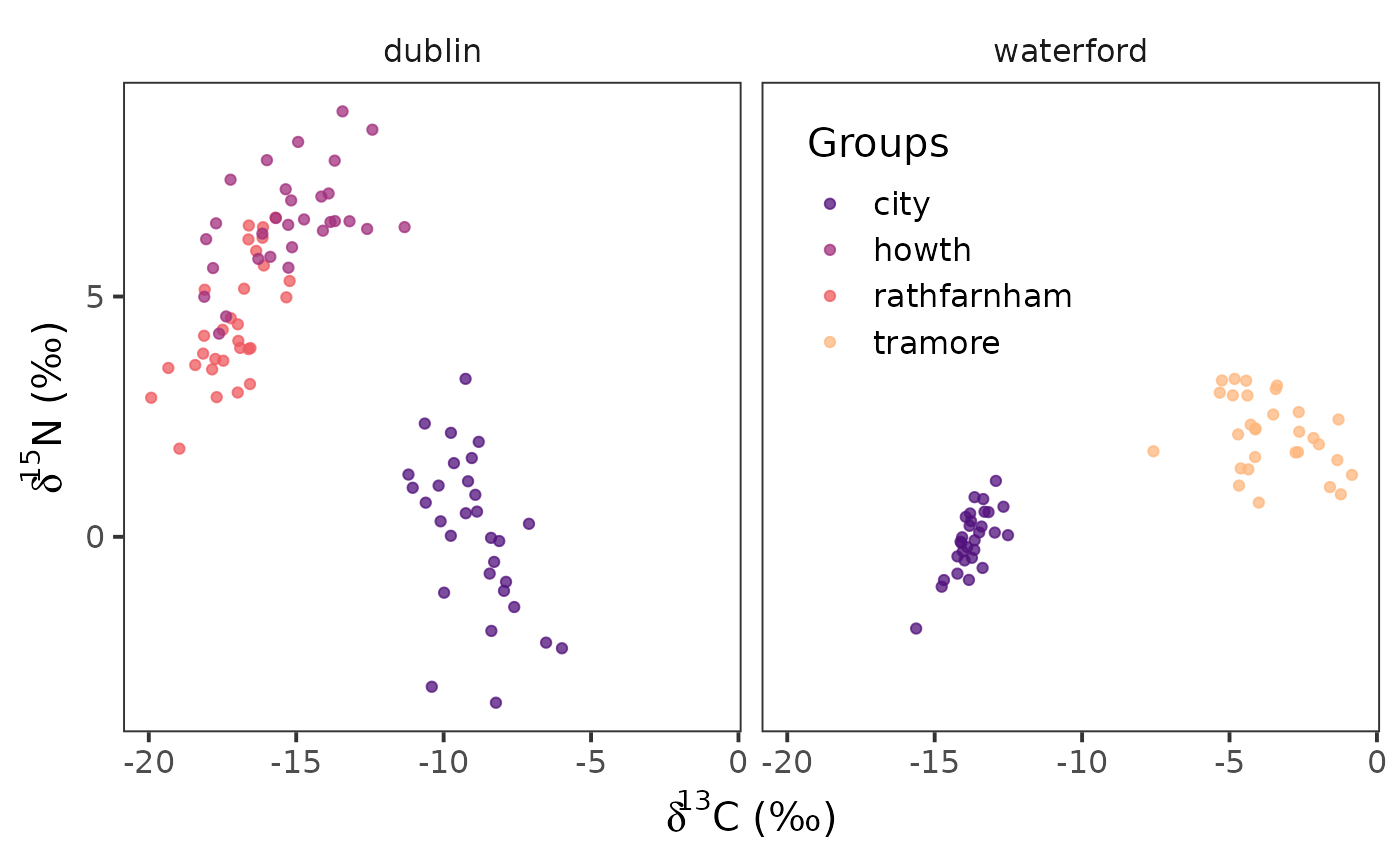
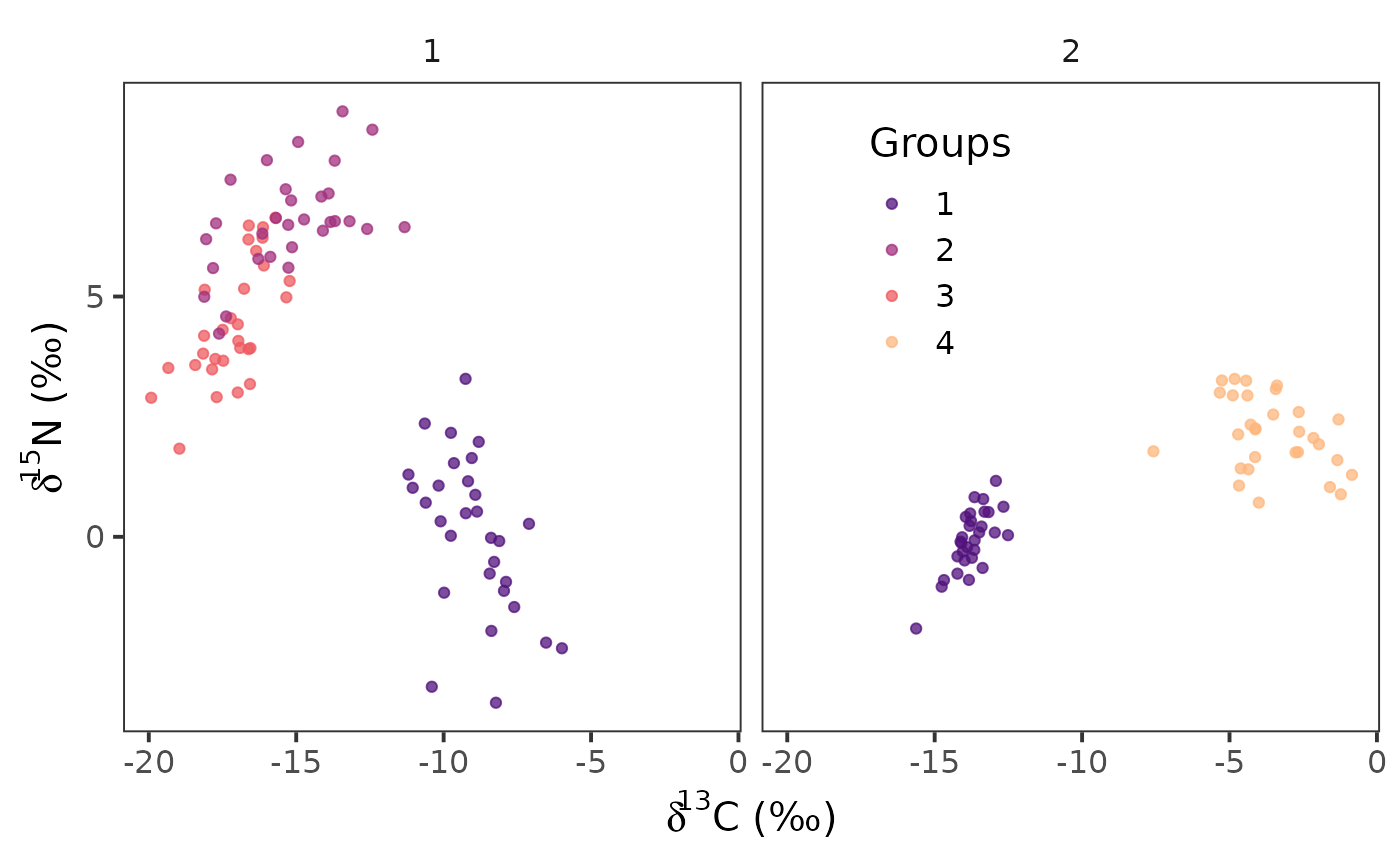
Deploying to gh-pages from @ benjaminhlina/nichetools@7597ed2ea087800a6d9cb8078057e51d91c0f65c 🚀

diff --git a/articles/using-nichetools-with-the-package-SIBER.html b/articles/using-nichetools-with-the-package-SIBER.html
@@ -150,17 +150,23 @@ community and group names fed to <code><a href="https://rdrr.io/pkg/SIBER/man/cr
 <span>      <span class="fu"><a href="https://rdrr.io/r/base/character.html" class="external-link">as.character</a></span><span class="op">(</span><span class="op">)</span>,</span>
 <span>    community_id <span class="op">=</span> <span class="fu"><a href="https://rdrr.io/r/base/numeric.html" class="external-link">as.numeric</a></span><span class="op">(</span><span class="va">community</span><span class="op">)</span> <span class="op"><a href="https://magrittr.tidyverse.org/reference/pipe.html" class="external-link">%&gt;%</a></span></span>
 <span>      <span class="fu"><a href="https://rdrr.io/r/base/character.html" class="external-link">as.character</a></span><span class="op">(</span><span class="op">)</span></span>
+<span>  <span class="op">)</span> <span class="op"><a href="https://magrittr.tidyverse.org/reference/pipe.html" class="external-link">%&gt;%</a></span> </span>
+<span>  <span class="fu"><a href="https://dplyr.tidyverse.org/reference/rename.html" class="external-link">rename</a></span><span class="op">(</span></span>
+<span>    group_name <span class="op">=</span> <span class="va">group</span>,</span>
+<span>    community_name <span class="op">=</span> <span class="va">community</span>,</span>
+<span>    group <span class="op">=</span> <span class="va">group_id</span>,</span>
+<span>    community <span class="op">=</span> <span class="va">community_id</span></span>
 <span>  <span class="op">)</span></span>
 <span></span>
 <span><span class="fu"><a href="https://pillar.r-lib.org/reference/glimpse.html" class="external-link">glimpse</a></span><span class="op">(</span><span class="va">demo.siber.data.2</span><span class="op">)</span></span>
 <span><span class="co">#&gt; Rows: 150</span></span>
 <span><span class="co">#&gt; Columns: 6</span></span>
-<span><span class="co">#&gt; $ iso1         <span style="color: #949494; font-style: italic;">&lt;dbl&gt;</span> -11.048902, -8.809360, -9.256212, -8.380952, -10.401561, …</span></span>
-<span><span class="co">#&gt; $ iso2         <span style="color: #949494; font-style: italic;">&lt;dbl&gt;</span> 1.02044315, 1.97597511, 3.28707260, -1.95750266, -3.11949…</span></span>
-<span><span class="co">#&gt; $ group        <span style="color: #949494; font-style: italic;">&lt;fct&gt;</span> city, city, city, city, city, city, city, city, city, cit…</span></span>
-<span><span class="co">#&gt; $ community    <span style="color: #949494; font-style: italic;">&lt;fct&gt;</span> dublin, dublin, dublin, dublin, dublin, dublin, dublin, d…</span></span>
-<span><span class="co">#&gt; $ group_id     <span style="color: #949494; font-style: italic;">&lt;chr&gt;</span> "1", "1", "1", "1", "1", "1", "1", "1", "1", "1", "1", "1…</span></span>
-<span><span class="co">#&gt; $ community_id <span style="color: #949494; font-style: italic;">&lt;chr&gt;</span> "1", "1", "1", "1", "1", "1", "1", "1", "1", "1", "1", "1…</span></span></code></pre></div>
+<span><span class="co">#&gt; $ iso1           <span style="color: #949494; font-style: italic;">&lt;dbl&gt;</span> -11.048902, -8.809360, -9.256212, -8.380952, -10.401561…</span></span>
+<span><span class="co">#&gt; $ iso2           <span style="color: #949494; font-style: italic;">&lt;dbl&gt;</span> 1.02044315, 1.97597511, 3.28707260, -1.95750266, -3.119…</span></span>
+<span><span class="co">#&gt; $ group_name     <span style="color: #949494; font-style: italic;">&lt;fct&gt;</span> city, city, city, city, city, city, city, city, city, c…</span></span>
+<span><span class="co">#&gt; $ community_name <span style="color: #949494; font-style: italic;">&lt;fct&gt;</span> dublin, dublin, dublin, dublin, dublin, dublin, dublin,…</span></span>
+<span><span class="co">#&gt; $ group          <span style="color: #949494; font-style: italic;">&lt;chr&gt;</span> "1", "1", "1", "1", "1", "1", "1", "1", "1", "1", "1", …</span></span>
+<span><span class="co">#&gt; $ community      <span style="color: #949494; font-style: italic;">&lt;chr&gt;</span> "1", "1", "1", "1", "1", "1", "1", "1", "1", "1", "1", …</span></span></code></pre></div>
 <p>After we have done this, we are going to create two data frames that
 are the names of our communities and groups with their associated id
 values. We will use these data frames later on to join up the actual
@@ -173,20 +179,21 @@ groups named 1, 2, 3 ect. and instead will have actual names.</p>
 <span><span class="va">cg_names</span> <span class="op">&lt;-</span> <span class="va">demo.siber.data.2</span> <span class="op"><a href="https://magrittr.tidyverse.org/reference/pipe.html" class="external-link">%&gt;%</a></span></span>
 <span>  <span class="fu"><a href="https://dplyr.tidyverse.org/reference/distinct.html" class="external-link">distinct</a></span><span class="op">(</span><span class="va">group</span>,</span>
 <span>           <span class="va">community</span>, </span>
-<span>           <span class="va">group_id</span>, </span>
-<span>           <span class="va">community_id</span><span class="op">)</span> <span class="op"><a href="https://magrittr.tidyverse.org/reference/pipe.html" class="external-link">%&gt;%</a></span></span>
+<span>           <span class="va">group_name</span>, </span>
+<span>           <span class="va">community_name</span><span class="op">)</span> <span class="op"><a href="https://magrittr.tidyverse.org/reference/pipe.html" class="external-link">%&gt;%</a></span></span>
+<span>  </span>
 <span>  <span class="fu"><a href="https://dplyr.tidyverse.org/reference/arrange.html" class="external-link">arrange</a></span><span class="op">(</span><span class="va">community</span>, <span class="va">group</span><span class="op">)</span></span>
 <span></span>
 <span><span class="co"># ---- create community names data frame ---- </span></span>
 <span><span class="va">c_names</span> <span class="op">&lt;-</span> <span class="va">demo.siber.data.2</span> <span class="op"><a href="https://magrittr.tidyverse.org/reference/pipe.html" class="external-link">%&gt;%</a></span> </span>
 <span>  <span class="fu"><a href="https://dplyr.tidyverse.org/reference/distinct.html" class="external-link">distinct</a></span><span class="op">(</span><span class="va">community</span>, </span>
-<span>           <span class="va">community_id</span><span class="op">)</span> <span class="op"><a href="https://magrittr.tidyverse.org/reference/pipe.html" class="external-link">%&gt;%</a></span></span>
+<span>           <span class="va">community_name</span><span class="op">)</span> <span class="op"><a href="https://magrittr.tidyverse.org/reference/pipe.html" class="external-link">%&gt;%</a></span></span>
 <span>  <span class="fu"><a href="https://dplyr.tidyverse.org/reference/arrange.html" class="external-link">arrange</a></span><span class="op">(</span><span class="va">community</span><span class="op">)</span></span></code></pre></div>
 <p>We will then plot our biplot to confirm we have the correct
 structure.</p>
 <div class="sourceCode" id="cb5"><pre class="downlit sourceCode r">
 <code class="sourceCode R"><span><span class="fu"><a href="https://ggplot2.tidyverse.org/reference/ggplot.html" class="external-link">ggplot</a></span><span class="op">(</span>data <span class="op">=</span> <span class="va">demo.siber.data.2</span>, <span class="fu"><a href="https://ggplot2.tidyverse.org/reference/aes.html" class="external-link">aes</a></span><span class="op">(</span>x <span class="op">=</span> <span class="va">iso1</span>, y <span class="op">=</span> <span class="va">iso2</span>,</span>
-<span>                             colour <span class="op">=</span> <span class="va">group</span><span class="op">)</span><span class="op">)</span> <span class="op">+</span></span>
+<span>                                     colour <span class="op">=</span> <span class="va">group</span><span class="op">)</span><span class="op">)</span> <span class="op">+</span></span>
 <span>  <span class="fu"><a href="https://ggplot2.tidyverse.org/reference/geom_point.html" class="external-link">geom_point</a></span><span class="op">(</span><span class="op">)</span> <span class="op">+</span></span>
 <span>  <span class="fu"><a href="https://ggplot2.tidyverse.org/reference/facet_wrap.html" class="external-link">facet_wrap</a></span><span class="op">(</span><span class="op">~</span> <span class="va">community</span><span class="op">)</span> <span class="op">+</span> </span>
 <span>  <span class="fu"><a href="https://ggplot2.tidyverse.org/reference/scale_viridis.html" class="external-link">scale_colour_viridis_d</a></span><span class="op">(</span>option <span class="op">=</span> <span class="st">"A"</span>, begin <span class="op">=</span> <span class="fl">0.25</span>, end <span class="op">=</span> <span class="fl">0.85</span>,</span>
@@ -217,11 +224,7 @@ could also be working with <code>data.table</code> and will need to do
 the same thing.</p>
 <div class="sourceCode" id="cb6"><pre class="downlit sourceCode r">
 <code class="sourceCode R"><span><span class="va">demo_siber_data</span> <span class="op">&lt;-</span> <span class="va">demo.siber.data.2</span> <span class="op"><a href="https://magrittr.tidyverse.org/reference/pipe.html" class="external-link">%&gt;%</a></span> </span>
-<span>  <span class="fu">dplyr</span><span class="fu">::</span><span class="fu"><a href="https://dplyr.tidyverse.org/reference/select.html" class="external-link">select</a></span><span class="op">(</span><span class="va">iso1</span>, <span class="va">iso2</span>, <span class="va">group_id</span>, <span class="va">community_id</span><span class="op">)</span> <span class="op"><a href="https://magrittr.tidyverse.org/reference/pipe.html" class="external-link">%&gt;%</a></span> </span>
-<span>  <span class="fu"><a href="https://dplyr.tidyverse.org/reference/rename.html" class="external-link">rename</a></span><span class="op">(</span></span>
-<span>    community <span class="op">=</span> <span class="va">community_id</span>, </span>
-<span>    group <span class="op">=</span> <span class="va">group_id</span></span>
-<span>  <span class="op">)</span> <span class="op"><a href="https://magrittr.tidyverse.org/reference/pipe.html" class="external-link">%&gt;%</a></span> </span>
+<span>  <span class="fu">dplyr</span><span class="fu">::</span><span class="fu"><a href="https://dplyr.tidyverse.org/reference/select.html" class="external-link">select</a></span><span class="op">(</span><span class="va">iso1</span>, <span class="va">iso2</span>, <span class="va">group</span>, <span class="va">community</span><span class="op">)</span> <span class="op"><a href="https://magrittr.tidyverse.org/reference/pipe.html" class="external-link">%&gt;%</a></span> </span>
 <span>  <span class="fu"><a href="https://rdrr.io/r/base/as.data.frame.html" class="external-link">as.data.frame</a></span><span class="op">(</span><span class="op">)</span></span></code></pre></div>
 </div>
 <div class="section level3">
@@ -286,8 +289,8 @@ community and group names.</p>
 <code class="sourceCode R"><span><span class="va">df_mu</span> <span class="op">&lt;-</span> <span class="fu"><a href="../reference/extract_mu.html">extract_mu</a></span><span class="op">(</span><span class="va">ellipses_posterior</span>, pkg <span class="op">=</span> <span class="st">"SIBER"</span>, </span>
 <span>                    data_format <span class="op">=</span> <span class="st">"wide"</span><span class="op">)</span> <span class="op"><a href="https://magrittr.tidyverse.org/reference/pipe.html" class="external-link">%&gt;%</a></span></span>
 <span>  <span class="fu"><a href="https://tidyr.tidyverse.org/reference/separate_wider_delim.html" class="external-link">separate_wider_delim</a></span><span class="op">(</span><span class="va">sample_name</span>, cols_remove <span class="op">=</span> <span class="cn">FALSE</span>,</span>
-<span>                       delim <span class="op">=</span> <span class="st">"."</span>, names <span class="op">=</span> <span class="fu"><a href="https://rdrr.io/r/base/c.html" class="external-link">c</a></span><span class="op">(</span><span class="st">"community_id"</span>,</span>
-<span>                                              <span class="st">"group_id"</span><span class="op">)</span><span class="op">)</span> <span class="op"><a href="https://magrittr.tidyverse.org/reference/pipe.html" class="external-link">%&gt;%</a></span></span>
+<span>                       delim <span class="op">=</span> <span class="st">"."</span>, names <span class="op">=</span> <span class="fu"><a href="https://rdrr.io/r/base/c.html" class="external-link">c</a></span><span class="op">(</span><span class="st">"community"</span>,</span>
+<span>                                              <span class="st">"group"</span><span class="op">)</span><span class="op">)</span> <span class="op"><a href="https://magrittr.tidyverse.org/reference/pipe.html" class="external-link">%&gt;%</a></span></span>
 <span>  <span class="fu"><a href="https://dplyr.tidyverse.org/reference/mutate-joins.html" class="external-link">left_join</a></span><span class="op">(</span><span class="va">cg_names</span><span class="op">)</span></span></code></pre></div>
 <p>We can confirm that the posterior estimates of
 <math display="inline" xmlns="http://www.w3.org/1998/Math/MathML"><semantics><mi>μ</mi><annotation encoding="application/x-tex">\mu</annotation></semantics></math>
@@ -295,11 +298,11 @@ are correct by plotting them with {ggplot2}</p>
 <div class="sourceCode" id="cb12"><pre class="downlit sourceCode r">
 <code class="sourceCode R"><span><span class="fu"><a href="https://ggplot2.tidyverse.org/reference/ggplot.html" class="external-link">ggplot</a></span><span class="op">(</span><span class="op">)</span> <span class="op">+</span></span>
 <span>  <span class="fu"><a href="https://ggplot2.tidyverse.org/reference/geom_point.html" class="external-link">geom_point</a></span><span class="op">(</span>data <span class="op">=</span> <span class="va">df_mu</span>, <span class="fu"><a href="https://ggplot2.tidyverse.org/reference/aes.html" class="external-link">aes</a></span><span class="op">(</span>x <span class="op">=</span> <span class="va">d13c</span>, y <span class="op">=</span> <span class="va">d15n</span>,</span>
-<span>                               colour <span class="op">=</span> <span class="va">group</span><span class="op">)</span><span class="op">)</span> <span class="op">+</span></span>
+<span>                               colour <span class="op">=</span> <span class="va">group_name</span><span class="op">)</span><span class="op">)</span> <span class="op">+</span></span>
 <span>  <span class="fu"><a href="https://ggplot2.tidyverse.org/reference/geom_point.html" class="external-link">geom_point</a></span><span class="op">(</span>data <span class="op">=</span> <span class="va">demo.siber.data.2</span>, <span class="fu"><a href="https://ggplot2.tidyverse.org/reference/aes.html" class="external-link">aes</a></span><span class="op">(</span>x <span class="op">=</span> <span class="va">iso1</span>, y <span class="op">=</span> <span class="va">iso2</span>,</span>
-<span>                                 colour <span class="op">=</span> <span class="va">group</span><span class="op">)</span><span class="op">)</span> <span class="op">+</span></span>
-<span>  <span class="fu"><a href="https://ggplot2.tidyverse.org/reference/facet_wrap.html" class="external-link">facet_wrap</a></span><span class="op">(</span> <span class="op">~</span> <span class="va">community</span><span class="op">)</span> <span class="op">+</span> </span>
-<span>    <span class="fu"><a href="https://ggplot2.tidyverse.org/reference/scale_viridis.html" class="external-link">scale_colour_viridis_d</a></span><span class="op">(</span>option <span class="op">=</span> <span class="st">"A"</span>, begin <span class="op">=</span> <span class="fl">0.25</span>, end <span class="op">=</span> <span class="fl">0.85</span>,</span>
+<span>                                           colour <span class="op">=</span> <span class="va">group_name</span><span class="op">)</span><span class="op">)</span> <span class="op">+</span></span>
+<span>  <span class="fu"><a href="https://ggplot2.tidyverse.org/reference/facet_wrap.html" class="external-link">facet_wrap</a></span><span class="op">(</span> <span class="op">~</span> <span class="va">community_name</span><span class="op">)</span> <span class="op">+</span> </span>
+<span>  <span class="fu"><a href="https://ggplot2.tidyverse.org/reference/scale_viridis.html" class="external-link">scale_colour_viridis_d</a></span><span class="op">(</span>option <span class="op">=</span> <span class="st">"A"</span>, begin <span class="op">=</span> <span class="fl">0.25</span>, end <span class="op">=</span> <span class="fl">0.85</span>,</span>
 <span>                         name <span class="op">=</span> <span class="st">"Groups"</span>, alpha <span class="op">=</span> <span class="fl">0.75</span><span class="op">)</span> <span class="op">+</span> </span>
 <span>  <span class="fu"><a href="https://ggplot2.tidyverse.org/reference/ggtheme.html" class="external-link">theme_bw</a></span><span class="op">(</span></span>
 <span>    base_size <span class="op">=</span> <span class="fl">15</span></span>
@@ -330,8 +333,8 @@ to be in long format.</p>
 <div class="sourceCode" id="cb13"><pre class="downlit sourceCode r">
 <code class="sourceCode R"><span><span class="va">df_mu_long</span> <span class="op">&lt;-</span> <span class="fu"><a href="../reference/extract_mu.html">extract_mu</a></span><span class="op">(</span><span class="va">ellipses_posterior</span>, pkg <span class="op">=</span> <span class="st">"SIBER"</span><span class="op">)</span> <span class="op"><a href="https://magrittr.tidyverse.org/reference/pipe.html" class="external-link">%&gt;%</a></span> </span>
 <span>  <span class="fu"><a href="https://tidyr.tidyverse.org/reference/separate_wider_delim.html" class="external-link">separate_wider_delim</a></span><span class="op">(</span><span class="va">sample_name</span>, cols_remove <span class="op">=</span> <span class="cn">FALSE</span>,</span>
-<span>                       delim <span class="op">=</span> <span class="st">"."</span>, names <span class="op">=</span> <span class="fu"><a href="https://rdrr.io/r/base/c.html" class="external-link">c</a></span><span class="op">(</span><span class="st">"community_id"</span>,</span>
-<span>                                              <span class="st">"group_id"</span><span class="op">)</span><span class="op">)</span> <span class="op"><a href="https://magrittr.tidyverse.org/reference/pipe.html" class="external-link">%&gt;%</a></span></span>
+<span>                       delim <span class="op">=</span> <span class="st">"."</span>, names <span class="op">=</span> <span class="fu"><a href="https://rdrr.io/r/base/c.html" class="external-link">c</a></span><span class="op">(</span><span class="st">"community"</span>,</span>
+<span>                                              <span class="st">"group"</span><span class="op">)</span><span class="op">)</span> <span class="op"><a href="https://magrittr.tidyverse.org/reference/pipe.html" class="external-link">%&gt;%</a></span></span>
 <span>  <span class="fu"><a href="https://dplyr.tidyverse.org/reference/mutate-joins.html" class="external-link">left_join</a></span><span class="op">(</span><span class="va">cg_names</span><span class="op">)</span></span></code></pre></div>
 <p>Next we are going to extract posterior estimates of
 <math display="inline" xmlns="http://www.w3.org/1998/Math/MathML"><semantics><mi>Σ</mi><annotation encoding="application/x-tex">\Sigma</annotation></semantics></math>
@@ -366,19 +369,19 @@ level of the ellipse you can do so using the argument
 <span>                       dat_sigma <span class="op">=</span> <span class="va">df_sigma</span>, </span>
 <span>                       set_seed <span class="op">=</span> <span class="fl">4</span>, n <span class="op">=</span> <span class="fl">20</span><span class="op">)</span> <span class="op"><a href="https://magrittr.tidyverse.org/reference/pipe.html" class="external-link">%&gt;%</a></span></span>
 <span>  <span class="fu"><a href="https://tidyr.tidyverse.org/reference/separate_wider_delim.html" class="external-link">separate_wider_delim</a></span><span class="op">(</span><span class="va">sample_name</span>, cols_remove <span class="op">=</span> <span class="cn">FALSE</span>,</span>
-<span>                       delim <span class="op">=</span> <span class="st">"."</span>, names <span class="op">=</span> <span class="fu"><a href="https://rdrr.io/r/base/c.html" class="external-link">c</a></span><span class="op">(</span><span class="st">"community_id"</span>,</span>
-<span>                                              <span class="st">"group_id"</span><span class="op">)</span><span class="op">)</span> <span class="op"><a href="https://magrittr.tidyverse.org/reference/pipe.html" class="external-link">%&gt;%</a></span></span>
+<span>                       delim <span class="op">=</span> <span class="st">"."</span>, names <span class="op">=</span> <span class="fu"><a href="https://rdrr.io/r/base/c.html" class="external-link">c</a></span><span class="op">(</span><span class="st">"community"</span>,</span>
+<span>                                              <span class="st">"group"</span><span class="op">)</span><span class="op">)</span> <span class="op"><a href="https://magrittr.tidyverse.org/reference/pipe.html" class="external-link">%&gt;%</a></span></span>
 <span>  <span class="fu"><a href="https://dplyr.tidyverse.org/reference/mutate-joins.html" class="external-link">left_join</a></span><span class="op">(</span><span class="va">cg_names</span><span class="op">)</span></span></code></pre></div>
 <p>Now that we have the ellipses created we can plot them</p>
 <div class="sourceCode" id="cb16"><pre class="downlit sourceCode r">
 <code class="sourceCode R"><span><span class="fu"><a href="https://ggplot2.tidyverse.org/reference/ggplot.html" class="external-link">ggplot</a></span><span class="op">(</span>data <span class="op">=</span> <span class="va">df_el</span>, </span>
 <span>       <span class="fu"><a href="https://ggplot2.tidyverse.org/reference/aes.html" class="external-link">aes</a></span><span class="op">(</span>x <span class="op">=</span> <span class="va">d13c</span>, y <span class="op">=</span> <span class="va">d15n</span>, </span>
-<span>                         group <span class="op">=</span> <span class="fu"><a href="https://rdrr.io/r/base/interaction.html" class="external-link">interaction</a></span><span class="op">(</span><span class="va">sample_number</span>, </span>
-<span>                                             <span class="va">sample_name</span><span class="op">)</span>, </span>
-<span>                         colour <span class="op">=</span> <span class="va">group</span><span class="op">)</span><span class="op">)</span> <span class="op">+</span> </span>
+<span>           group <span class="op">=</span> <span class="fu"><a href="https://rdrr.io/r/base/interaction.html" class="external-link">interaction</a></span><span class="op">(</span><span class="va">sample_number</span>, </span>
+<span>                               <span class="va">sample_name</span><span class="op">)</span>, </span>
+<span>           colour <span class="op">=</span> <span class="va">group_name</span><span class="op">)</span><span class="op">)</span> <span class="op">+</span> </span>
 <span>  <span class="fu"><a href="https://ggplot2.tidyverse.org/reference/geom_polygon.html" class="external-link">geom_polygon</a></span><span class="op">(</span>linewidth <span class="op">=</span> <span class="fl">0.5</span>, fill <span class="op">=</span> <span class="cn">NA</span><span class="op">)</span> <span class="op">+</span> </span>
-<span>   <span class="fu"><a href="https://ggplot2.tidyverse.org/reference/facet_wrap.html" class="external-link">facet_wrap</a></span><span class="op">(</span> <span class="op">~</span> <span class="va">community</span><span class="op">)</span> <span class="op">+</span> </span>
-<span>    <span class="fu"><a href="https://ggplot2.tidyverse.org/reference/scale_viridis.html" class="external-link">scale_colour_viridis_d</a></span><span class="op">(</span>option <span class="op">=</span> <span class="st">"A"</span>, begin <span class="op">=</span> <span class="fl">0.25</span>, end <span class="op">=</span> <span class="fl">0.85</span>,</span>
+<span>  <span class="fu"><a href="https://ggplot2.tidyverse.org/reference/facet_wrap.html" class="external-link">facet_wrap</a></span><span class="op">(</span> <span class="op">~</span> <span class="va">community_name</span><span class="op">)</span> <span class="op">+</span> </span>
+<span>  <span class="fu"><a href="https://ggplot2.tidyverse.org/reference/scale_viridis.html" class="external-link">scale_colour_viridis_d</a></span><span class="op">(</span>option <span class="op">=</span> <span class="st">"A"</span>, begin <span class="op">=</span> <span class="fl">0.25</span>, end <span class="op">=</span> <span class="fl">0.85</span>,</span>
 <span>                         name <span class="op">=</span> <span class="st">"Groups"</span>, alpha <span class="op">=</span> <span class="fl">0.75</span><span class="op">)</span> <span class="op">+</span> </span>
 <span>  <span class="fu"><a href="https://ggplot2.tidyverse.org/reference/ggtheme.html" class="external-link">theme_bw</a></span><span class="op">(</span></span>
 <span>    base_size <span class="op">=</span> <span class="fl">15</span></span>
@@ -410,15 +413,38 @@ community and groups we are working with.</p>
 <code class="sourceCode R"><span><span class="va">seb_convert</span> <span class="op">&lt;-</span> <span class="fu"><a href="../reference/extract_niche_size.html">extract_niche_size</a></span><span class="op">(</span>data <span class="op">=</span> <span class="va">sea_b</span>,</span>
 <span>                                  pkg <span class="op">=</span> <span class="st">"SIBER"</span>,</span>
 <span>                                  community_df <span class="op">=</span> <span class="va">cg_names</span><span class="op">)</span></span></code></pre></div>
+<p>We will also extract the parametric estimate for niche size using
+<code><a href="https://rdrr.io/pkg/SIBER/man/groupMetricsML.html" class="external-link">groupMetricsML()</a></code> from {SIBER}.</p>
+<div class="sourceCode" id="cb19"><pre class="downlit sourceCode r">
+<code class="sourceCode R"><span><span class="va">group_ml</span> <span class="op">&lt;-</span> <span class="fu"><a href="https://rdrr.io/pkg/SIBER/man/groupMetricsML.html" class="external-link">groupMetricsML</a></span><span class="op">(</span><span class="va">siber_example</span><span class="op">)</span></span></code></pre></div>
+<p>We can convert the output of this function into something we can work
+with using <code><a href="../reference/extract_group_metrics.html">extract_group_metrics()</a></code>.</p>
+<div class="sourceCode" id="cb20"><pre class="downlit sourceCode r">
+<code class="sourceCode R"><span><span class="va">group_convert</span> <span class="op">&lt;-</span> <span class="fu"><a href="../reference/extract_group_metrics.html">extract_group_metrics</a></span><span class="op">(</span>data <span class="op">=</span> <span class="va">group_ml</span>,</span>
+<span>                                       community_df <span class="op">=</span> <span class="va">cg_names</span><span class="op">)</span></span></code></pre></div>
+<p>The object returned will have maximum-liklihod estimates for standard
+ellipse area (SEA), central standard ellipse area (SEAc), and total area
+(TA). For plotting niche size we will use the SEAc.</p>
+<div class="sourceCode" id="cb21"><pre class="downlit sourceCode r">
+<code class="sourceCode R"><span><span class="va">sea_c</span> <span class="op">&lt;-</span> <span class="va">group_convert</span> <span class="op"><a href="https://magrittr.tidyverse.org/reference/pipe.html" class="external-link">%&gt;%</a></span> </span>
+<span>  <span class="fu"><a href="https://dplyr.tidyverse.org/reference/filter.html" class="external-link">filter</a></span><span class="op">(</span><span class="va">metric</span> <span class="op">==</span> <span class="st">"SEAc"</span><span class="op">)</span></span></code></pre></div>
 <p>Lastly, we can visualize the extracted niche sizes using
 {ggplot2}.</p>
-<div class="sourceCode" id="cb19"><pre class="downlit sourceCode r">
-<code class="sourceCode R"><span><span class="fu"><a href="https://ggplot2.tidyverse.org/reference/ggplot.html" class="external-link">ggplot</a></span><span class="op">(</span>data <span class="op">=</span> <span class="va">seb_convert</span>, <span class="fu"><a href="https://ggplot2.tidyverse.org/reference/aes.html" class="external-link">aes</a></span><span class="op">(</span>x <span class="op">=</span> <span class="va">community</span>,</span>
+<div class="sourceCode" id="cb22"><pre class="downlit sourceCode r">
+<code class="sourceCode R"><span><span class="fu"><a href="https://ggplot2.tidyverse.org/reference/ggplot.html" class="external-link">ggplot</a></span><span class="op">(</span><span class="op">)</span> <span class="op">+</span></span>
+<span>  <span class="fu"><a href="https://ggplot2.tidyverse.org/reference/geom_violin.html" class="external-link">geom_violin</a></span><span class="op">(</span>data <span class="op">=</span> <span class="va">seb_convert</span>, <span class="fu"><a href="https://ggplot2.tidyverse.org/reference/aes.html" class="external-link">aes</a></span><span class="op">(</span>x <span class="op">=</span> <span class="va">community_name</span>,</span>
 <span>                               y <span class="op">=</span> <span class="va">sea</span>,</span>
-<span>                               fill <span class="op">=</span> <span class="va">group</span><span class="op">)</span><span class="op">)</span> <span class="op">+</span></span>
-<span>  <span class="fu"><a href="https://ggplot2.tidyverse.org/reference/geom_violin.html" class="external-link">geom_violin</a></span><span class="op">(</span><span class="op">)</span> <span class="op">+</span> </span>
+<span>                               fill <span class="op">=</span> <span class="va">group_name</span><span class="op">)</span><span class="op">)</span> <span class="op">+</span> </span>
 <span>  <span class="fu"><a href="https://ggplot2.tidyverse.org/reference/scale_viridis.html" class="external-link">scale_fill_viridis_d</a></span><span class="op">(</span>option <span class="op">=</span> <span class="st">"A"</span>, begin <span class="op">=</span> <span class="fl">0.25</span>, end <span class="op">=</span> <span class="fl">0.85</span>,</span>
-<span>                         name <span class="op">=</span> <span class="st">"Groups"</span>, alpha <span class="op">=</span> <span class="fl">0.75</span><span class="op">)</span> <span class="op">+</span> </span>
+<span>                       name <span class="op">=</span> <span class="st">"Groups"</span>, alpha <span class="op">=</span> <span class="fl">0.75</span><span class="op">)</span> <span class="op">+</span> </span>
+<span>  <span class="fu"><a href="https://ggplot2.tidyverse.org/reference/geom_point.html" class="external-link">geom_point</a></span><span class="op">(</span>data <span class="op">=</span> <span class="va">sea_c</span>, <span class="fu"><a href="https://ggplot2.tidyverse.org/reference/aes.html" class="external-link">aes</a></span><span class="op">(</span>x <span class="op">=</span> <span class="va">community_name</span>, </span>
+<span>                               y <span class="op">=</span> <span class="va">est</span>, </span>
+<span>                               group <span class="op">=</span> <span class="va">group_name</span>,</span>
+<span>                               <span class="op">)</span>, </span>
+<span>             size <span class="op">=</span> <span class="fl">2.5</span>,</span>
+<span>             fill <span class="op">=</span> <span class="st">"white"</span>,</span>
+<span>             shape <span class="op">=</span> <span class="fl">21</span>,</span>
+<span>             position <span class="op">=</span> <span class="fu"><a href="https://ggplot2.tidyverse.org/reference/position_dodge.html" class="external-link">position_dodge</a></span><span class="op">(</span>width <span class="op">=</span> <span class="fl">0.9</span><span class="op">)</span><span class="op">)</span> <span class="op">+</span></span>
 <span>  <span class="fu"><a href="https://ggplot2.tidyverse.org/reference/ggtheme.html" class="external-link">theme_bw</a></span><span class="op">(</span></span>
 <span>    base_size <span class="op">=</span> <span class="fl">15</span></span>
 <span>  <span class="op">)</span> <span class="op">+</span> </span>
@@ -431,8 +457,8 @@ community and groups we are working with.</p>
 <span>  <span class="op">)</span> <span class="op">+</span> </span>
 <span>  <span class="fu"><a href="https://ggplot2.tidyverse.org/reference/labs.html" class="external-link">labs</a></span><span class="op">(</span></span>
 <span>    x <span class="op">=</span> <span class="st">"Communities"</span>, </span>
-<span>    y <span class="op">=</span> <span class="st">"Niche Size (p(‰ | x)"</span><span class="op">)</span> </span></code></pre></div>
-<p><img src="using-nichetools-with-the-package-SIBER_files/figure-html/unnamed-chunk-20-1.png" width="700"></p>
+<span>    y <span class="op">=</span> <span class="st">"Niche Size p(‰ | x)"</span><span class="op">)</span> </span></code></pre></div>
+<p><img src="using-nichetools-with-the-package-SIBER_files/figure-html/unnamed-chunk-23-1.png" width="700"></p>
 </div>
 <div class="section level3">
 <h3 id="niche-similarties">Niche Similarties<a class="anchor" aria-label="anchor" href="#niche-similarties"></a>

diff --git a/reference/niche_ellipse.html b/reference/niche_ellipse.html
@@ -133,7 +133,7 @@ and <code><a href="extract_sigma.html">extract_sigma()</a></code></p></div>
     <h2 id="ref-examples">Examples<a class="anchor" aria-label="anchor" href="#ref-examples"></a></h2>
     <div class="sourceCode"><pre class="sourceCode r"><code><span class="r-in"><span><span class="fu">niche_ellipse</span><span class="op">(</span>dat_mu <span class="op">=</span> <span class="va">mu_est_long</span>,</span></span>
 <span class="r-in"><span>              dat_sigma <span class="op">=</span> <span class="va">sigma_est_wide</span><span class="op">)</span></span></span>
-<span class="r-msg co"><span class="r-pr">#&gt;</span> → Total time processing was 0.08 secs</span>
+<span class="r-msg co"><span class="r-pr">#&gt;</span> → Total time processing was 0.06 secs</span>
 <span class="r-out co"><span class="r-pr">#&gt;</span> <span style="color: #949494;"># A tibble: 4,000 × 4</span></span>
 <span class="r-out co"><span class="r-pr">#&gt;</span>    sample_name sample_number  d13c  d15n</span>
 <span class="r-out co"><span class="r-pr">#&gt;</span>    <span style="color: #949494; font-style: italic;">&lt;chr&gt;</span>               <span style="color: #949494; font-style: italic;">&lt;dbl&gt;</span> <span style="color: #949494; font-style: italic;">&lt;dbl&gt;</span> <span style="color: #949494; font-style: italic;">&lt;dbl&gt;</span></span>
